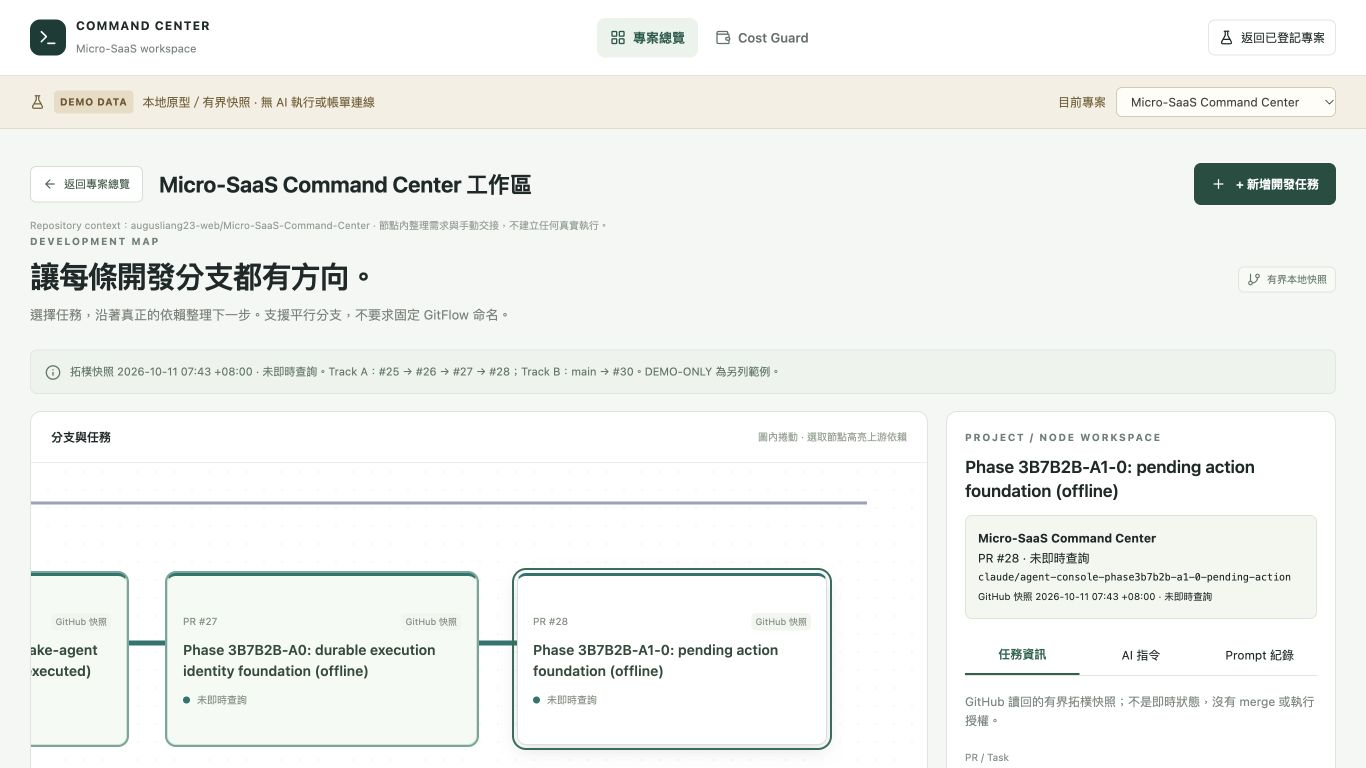
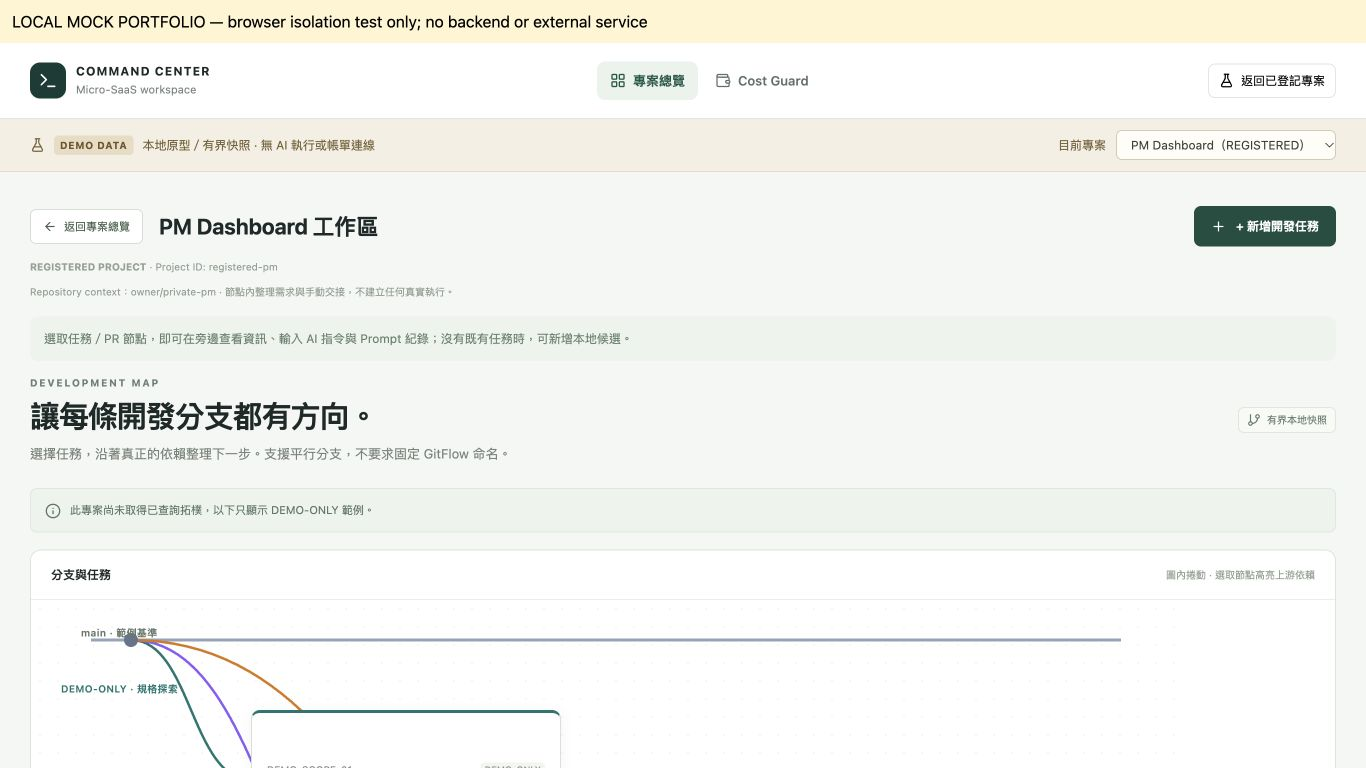
fix: isolate registered and demo workspace identities

diff --git a/src/prototype/PrototypeShell.tsx b/src/prototype/PrototypeShell.tsx
@@ -8,56 +8,68 @@ import {NodeCommandPanel,PromptDraft,emptyDraft,promptBytes,MAX_PROMPT_BYTES} fr
 import {PromptEntry} from './PromptHistory';
 import './prototype.css';
 const PAGES=[{id:'overview',label:'專案總覽',icon:LayoutGrid},{id:'cost',label:'Cost Guard',icon:Wallet}] as const;
-type RegisteredContext={id?:string;name:string;repository:string};
+type RegisteredContext={id?:string;name:string;repository?:string};
+type WorkspaceIdentity={source:'REGISTERED'|'DEMO';projectId?:string;repository?:string;displayName:string};
+const DEMO_IDS:Record<string,string>={'PM Dashboard':'demo-pm','SwipeRight':'demo-swipe','SaaS Cost Guard':'demo-cost','ProSync':'demo-prosync','Micro-SaaS Command Center':'demo-command-center'};
+const demoIdentity=(name:string):WorkspaceIdentity=>({source:'DEMO',projectId:Object.prototype.hasOwnProperty.call(DEMO_IDS,name)?DEMO_IDS[name]:undefined,displayName:name,repository:name==='Micro-SaaS Command Center'?'augusliang23-web/Micro-SaaS-Command-Center':undefined});
+const workspaceKey=(identity:WorkspaceIdentity)=>JSON.stringify([identity.source,identity.projectId??null,identity.repository??null]);
+const registeredIdentity=(context:RegisteredContext):WorkspaceIdentity=>({source:'REGISTERED',projectId:context.id?.trim()?context.id:undefined,repository:context.repository?.trim()||undefined,displayName:context.name});
 export function PrototypeShell({registeredOverview}:{registeredOverview:(remember:(context:RegisteredContext)=>void)=>ReactNode}) {
   const [demo,setDemo]=useState(()=>new URLSearchParams(window.location.search).get('mode')==='demo');
-  const [page,setPage]=useState<Page>('overview');const [project,setProject]=useState('Micro-SaaS Command Center');
+  const [page,setPage]=useState<Page>('overview');const [identity,setIdentity]=useState<WorkspaceIdentity>(()=>demoIdentity('Micro-SaaS Command Center'));
+  const project=identity.displayName;
   const [registered,setRegistered]=useState<RegisteredContext|null>(null);const [taskId,setTaskId]=useState('');
   const [drafts,setDrafts]=useState<Record<string,PromptDraft>>({});const [histories,setHistories]=useState<Record<string,PromptEntry[]>>({});
   const [candidates,setCandidates]=useState<Record<string,DemoTask[]>>({});const sequence=useRef(0);
   const [adding,setAdding]=useState(false);const [newTitle,setNewTitle]=useState('');const [newRequirement,setNewRequirement]=useState('');
   const [openCommand,setOpenCommand]=useState(false);
-  const registeredContext=registered?.name===project?registered:null;
-  const projectKey=JSON.stringify(registeredContext?['registered',registeredContext.id??registeredContext.repository,registeredContext.repository]:['demo',project]);
-  const canonical=!registeredContext||/^(?:https?:\/\/)?(?:github\.com\/)?augusliang23-web\/Micro-SaaS-Command-Center\/?$/.test(registeredContext.repository);
+  const projectKey=workspaceKey(identity);const identityKnown=Boolean(identity.projectId);
+  const canonical=identity.source==='DEMO'?identity.projectId==='demo-command-center':Boolean(identity.repository&&/^(?:https?:\/\/)?(?:github\.com\/)?augusliang23-web\/Micro-SaaS-Command-Center\/?$/.test(identity.repository));
   const tasks=[...tasksFor(project,canonical),...(candidates[projectKey]??[])];const task=tasks.find(t=>t.id===taskId);
   const key=JSON.stringify([projectKey,taskId]);
-  const repository=registeredContext?.repository??(project==='Micro-SaaS Command Center'?'augusliang23-web/Micro-SaaS-Command-Center':undefined);
+  const repository=identity.repository;
   useLayoutEffect(()=>{(document.scrollingElement??document.documentElement).scrollTop=0;},[page,demo]);
   const clearSelection=()=>{setTaskId('');setAdding(false);setOpenCommand(false);};
-  const rememberRegistered=useCallback((context:RegisteredContext)=>{setRegistered(context);setProject(context.name);setTaskId('');setAdding(false);},[]);
-  const chooseProject=(name:string)=>{if(name!==project){setProject(name);clearSelection();setNewTitle('');setNewRequirement('');}};
+  const switchIdentity=(next:WorkspaceIdentity)=>{
+    if(workspaceKey(next)!==projectKey){clearSelection();setNewTitle('');setNewRequirement('');}
+    setIdentity(next);
+  };
+  const rememberRegistered=useCallback((context:RegisteredContext)=>{setRegistered(context);setIdentity(registeredIdentity(context));setTaskId('');setAdding(false);setOpenCommand(false);setNewTitle('');setNewRequirement('');},[]);
+  const chooseProject=(name:string)=>switchIdentity(demoIdentity(name));
   const navigate=(destination:Page,name=project)=>{chooseProject(name);setPage(destination);setDemo(true);};
+  const enterRegistered=()=>{if(!registered)return;switchIdentity(registeredIdentity(registered));setPage('workspace');setDemo(true);};
   const select=(id:string)=>{setTaskId(id);setOpenCommand(false);};
   const titleInvalid=!newTitle.trim()||newTitle.length>80;const requirementInvalid=!newRequirement.trim()||promptBytes(newRequirement)>MAX_PROMPT_BYTES;
   const createCandidate=()=>{
-    if(titleInvalid||requirementInvalid)return;
+    if(!identityKnown||titleInvalid||requirementInvalid)return;
     const id=`local-${++sequence.current}`;
     const candidate:DemoTask={id,title:newTitle,reference:`LOCAL-DEMO-${sequence.current}`,branch:'Not available（未建立 Git branch）',description:'本次工作階段的本地 DEMO 候選。不建立 GitHub Issue、branch、PR、核准或 agent run。',dependencies:['main'],lane:'ui',x:Math.max(220,...tasks.filter(t=>t.lane==='ui').map(t=>t.x+350)),source:'demo',status:'本地候選 · 未核准'};
     setCandidates(c=>({...c,[projectKey]:[...(c[projectKey]??[]),candidate]}));
     setDrafts(d=>({...d,[JSON.stringify([projectKey,id])]:{...emptyDraft(),request:newRequirement}}));
     setTaskId(id);setAdding(false);setOpenCommand(true);setNewTitle('');setNewRequirement('');
   };
-  const panel=task?<NodeCommandPanel key={key} project={project} repository={repository} task={task} tasks={tasks} draft={drafts[key]??emptyDraft()} change={d=>setDrafts(prev=>({...prev,[key]:d}))} entries={histories[key]??[]} save={entry=>{const saved={...entry,id:++sequence.current};setHistories(h=>({...h,[key]:[...(h[key]??[]),saved]}));}} initialTab={openCommand?'AI 指令':'任務資訊'}/>:null;
+  const panel=identityKnown&&task?<NodeCommandPanel key={key} workspaceSource={identity.source} workspaceId={identity.projectId!} project={project} repository={repository} task={task} tasks={tasks} draft={drafts[key]??emptyDraft()} change={d=>setDrafts(prev=>({...prev,[key]:d}))} entries={histories[key]??[]} save={entry=>{const saved={...entry,id:++sequence.current};setHistories(h=>({...h,[key]:[...(h[key]??[]),saved]}));}} initialTab={openCommand?'AI 指令':'任務資訊'}/>:null;
   return <div className="prototype-shell">
     <header className="p-header"><div className="p-brand"><span><Terminal size={20}/></span><div><strong>COMMAND CENTER</strong><small>Micro-SaaS workspace</small></div></div>
       <nav aria-label="主要頁面">{PAGES.map(p=><button key={p.id} aria-current={page===p.id||(p.id==='overview'&&page==='workspace')?'page':undefined} onClick={()=>{if(demo||p.id==='cost')navigate(p.id);else setPage('overview');}}><p.icon size={16}/>{p.label}</button>)}</nav>
-      <button className="p-mode" onClick={()=>{setDemo(!demo);setPage('overview');}}><FlaskConical size={15}/>{demo?'返回已登記專案':'進入 DEMO'}</button>
+      <button className="p-mode" onClick={()=>{if(!demo)chooseProject(project);clearSelection();setNewTitle('');setNewRequirement('');setDemo(!demo);setPage('overview');}}><FlaskConical size={15}/>{demo?'返回已登記專案':'進入 DEMO'}</button>
     </header>
     {demo?<>
-      <div className="p-demo-bar"><span><FlaskConical size={15}/><strong>DEMO DATA</strong> 本地原型／有界快照 · 無 AI 執行或帳單連線</span><label htmlFor="p-project">目前專案<select aria-label="目前專案" id="p-project" value={project} onChange={e=>chooseProject(e.target.value)}>{PROJECTS.map(p=><option key={p.name}>{p.name}</option>)}{!PROJECTS.some(p=>p.name===project)&&<option>{project}</option>}</select></label></div>
+      <div className="p-demo-bar"><span><FlaskConical size={15}/><strong>DEMO DATA</strong> 本地原型／有界快照 · 無 AI 執行或帳單連線</span><label htmlFor="p-project">目前專案<select aria-label="目前專案" id="p-project" value={identity.source==='REGISTERED'?'registered-current':project} onChange={e=>chooseProject(e.target.value)}>{identity.source==='REGISTERED'&&<option value="registered-current" disabled>{project}（REGISTERED）</option>}{PROJECTS.map(p=><option key={p.name}>{p.name}</option>)}</select></label></div>
       <main className="p-main">
         {page==='overview'&&<Overview selected={project} navigate={navigate}/>}
         {page==='cost'&&<CostGuard project={project} select={chooseProject}/>}
         {page==='workspace'&&<>
-          <div className="p-workspace-heading"><button className="p-secondary" onClick={()=>navigate('overview')}><ArrowLeft size={14}/>返回專案總覽</button><h1>{project} 工作區</h1><button className="p-primary" onClick={()=>setAdding(!adding)}><Plus size={15}/>+ 新增開發任務</button></div>
+          <div className="p-workspace-heading"><button className="p-secondary" onClick={()=>navigate('overview')}><ArrowLeft size={14}/>返回專案總覽</button><h1>{project} 工作區</h1><button className="p-primary" disabled={!identityKnown} onClick={()=>setAdding(!adding)}><Plus size={15}/>+ 新增開發任務</button></div>
+          <p className="p-source"><strong>{identity.source==='REGISTERED'?'REGISTERED PROJECT':'DEMO PROJECT'}</strong> · Project ID: {identity.projectId??'Not available'}</p>
+          {!identityKnown&&<p role="alert">缺少穩定專案 ID，工作區指令與紀錄操作已封閉；不以名稱或 repository 推測身分。</p>}
           <p className="p-source">{repository?`Repository context：${repository}`:'Repository：Not available'} · 節點內整理需求與手動交接，不建立任何真實執行。</p>
           {adding&&<section className="p-new-task" aria-label="新增本地任務"><h2>新增本地 DEMO 候選</h2><p className="p-muted">只在本次工作階段顯示，不建立 GitHub Issue、branch、PR 或核准。</p><label className="p-field">任務名稱<input aria-label="任務名稱" value={newTitle} onChange={e=>setNewTitle(e.target.value)}/></label><label className="p-field">新任務需求<textarea aria-label="新任務需求" value={newRequirement} onChange={e=>setNewRequirement(e.target.value)} rows={4}/></label>{newTitle.length>80&&<p role="alert">任務名稱上限為 80 字元，請自行縮減。</p>}{promptBytes(newRequirement)>MAX_PROMPT_BYTES&&<p role="alert">需求超過 64 KiB 上限，請自行縮減。</p>}<button className="p-primary" disabled={titleInvalid||requirementInvalid} onClick={createCandidate}>建立本地 DEMO 候選</button></section>}
           {!task&&<p className="p-workspace-empty">選取任務／PR 節點，即可在旁邊查看資訊、輸入 AI 指令與 Prompt 紀錄；沒有既有任務時，可新增本地候選。</p>}
-          <DevelopmentMap tasks={tasks} selected={taskId} select={select} panel={panel}/>
+          {identityKnown&&<DevelopmentMap tasks={tasks} selected={taskId} select={select} panel={panel}/>}
         </>}
       </main>
       <footer className="p-footer"><span>所有貼入文字均未驗證，不構成核准或執行權限。</span><span>REAL_AGENT_EXECUTION = NOT_AUTHORIZED</span></footer>
-    </>:<><div className="p-real-bar">已登記專案總覽 · 保留來源查詢與 UNKNOWN 邊界。{registered&&<span>選定 context：{registered.name}</span>}<button onClick={()=>navigate('workspace')}>進入專案工作區</button><button onClick={()=>navigate('overview')}>體驗 DEMO 專案</button></div><div className="p-registered-overview">{registeredOverview(rememberRegistered)}</div></>}
+    </>:<><div className="p-real-bar">已登記專案總覽 · 保留來源查詢與 UNKNOWN 邊界。{registered&&<span>選定 context：{registered.name}</span>}<button disabled={!registered} onClick={enterRegistered}>進入專案工作區</button><button onClick={()=>navigate('overview')}>體驗 DEMO 專案</button></div><div className="p-registered-overview">{registeredOverview(rememberRegistered)}</div></>}
   </div>;
 }

diff --git a/src/Prototype.test.tsx b/src/Prototype.test.tsx
@@ -2,6 +2,7 @@ import {cleanup,fireEvent,render,screen,within,waitFor} from '@testing-library/r
 import userEvent from '@testing-library/user-event';
 import {afterEach,beforeEach,expect,test,vi} from 'vitest';
 import App from './App';
+import {PrototypeShell} from './prototype/PrototypeShell';
 import {initialProjects,initialAttentionItems,initialNextBestAction,initialExecutionSnapshot} from './mockData';
 import {githubSnapshot} from './test/githubSnapshots.mjs';
 
@@ -154,4 +155,49 @@ test('local candidates remain private to their project and survive in-session na
 test('editing after CRLF paste preserves every untouched original line ending',async()=>{
  const write=clipboard();render(<App/>);workspace();node();tab();fireEvent.click(screen.getByRole('button',{name:'貼入 Control Plane Prompt'}));const raw='Agent: Codex\r\nModel: GPT-6 Sol\r\n\r\n需求 A  \r\n';
  fireEvent.paste(screen.getByLabelText('你的指令'),{clipboardData:{getData:()=>raw}});fireEvent.change(screen.getByLabelText('你的指令'),{target:{value:raw.replace(/\r\n/g,'\n')+'追加說明'}});save();tab('Prompt 紀錄');fireEvent.click(screen.getByRole('button',{name:'複製 Prompt'}));await waitFor(()=>expect(write).toHaveBeenCalledWith(raw+'追加說明'));
+});
+
+
+const enterRegistered=()=>fireEvent.click(screen.getByRole('button',{name:'進入專案工作區'}));
+const candidate=(title:string)=>{fireEvent.click(screen.getByRole('button',{name:'+ 新增開發任務'}));fireEvent.change(screen.getByLabelText('任務名稱'),{target:{value:title}});fireEvent.change(screen.getByLabelText('新任務需求'),{target:{value:'候選私有需求'}});fireEvent.click(screen.getByRole('button',{name:'建立本地 DEMO 候選'}));};
+
+test('P2 regression: same-name demo cannot inherit registered repository, drafts, history or candidates',async()=>{
+ window.history.replaceState(null,'','/');const real={...initialProjects[0],id:'registered-pm',name:'PM Dashboard',repository:'owner/private-pm'};
+ vi.spyOn(globalThis,'fetch').mockImplementation(async input=>({ok:true,json:async()=>String(input)==='/api/state'?{projects:[real],attentionItems:initialAttentionItems,nba:initialNextBestAction,snapshot:initialExecutionSnapshot}:githubSnapshot({state:'none'})}) as Response);
+ const write=clipboard();render(<App/>);await screen.findByRole('article',{name:'PM Dashboard'});fireEvent.click(within(screen.getByRole('article',{name:'PM Dashboard'})).getByRole('button',{name:'查看專案'}));fireEvent.click(screen.getByRole('button',{name:'關閉專案詳情'}));enterRegistered();node(/UI\/UX Development/);tab();input('REGISTERED UNIQUE HISTORY');save();input('REGISTERED UNSAVED DRAFT');candidate('REGISTERED CANDIDATE');
+ fireEvent.click(screen.getByRole('button',{name:'返回已登記專案'}));fireEvent.click(screen.getByRole('button',{name:'體驗 DEMO 專案'}));workspace('PM Dashboard');
+ expect(screen.queryByText(/owner\/private-pm/)).not.toBeInTheDocument();expect(screen.getByText('DEMO PROJECT')).toBeVisible();expect(screen.queryByRole('region',{name:'節點指令面板'})).not.toBeInTheDocument();expect(screen.queryByRole('button',{name:/REGISTERED CANDIDATE/})).not.toBeInTheDocument();
+ node(/UI\/UX Development/);tab();expect(screen.getByLabelText('你的指令')).toHaveValue('');tab('Prompt 紀錄');expect(screen.queryByRole('article',{name:'Prompt 1'})).not.toBeInTheDocument();tab('任務資訊');fireEvent.click(screen.getByRole('button',{name:'複製專案／節點上下文'}));await waitFor(()=>expect(write).toHaveBeenCalled());expect(write.mock.calls.at(-1)?.[0]).not.toContain('owner/private-pm');expect(write.mock.calls.at(-1)?.[0]).toContain('Workspace source: DEMO');
+ tab();input('DEMO UNIQUE HISTORY');save();fireEvent.click(screen.getByRole('button',{name:'返回已登記專案'}));enterRegistered();expect(screen.getByText('REGISTERED PROJECT')).toBeVisible();node(/UI\/UX Development/);tab('Prompt 紀錄');expect(screen.getByLabelText('Prompt 1 原文')).toHaveValue('REGISTERED UNIQUE HISTORY');expect(screen.queryByText('DEMO UNIQUE HISTORY')).not.toBeInTheDocument();tab();expect(screen.getByLabelText('你的指令')).toHaveValue('REGISTERED UNSAVED DRAFT');expect(screen.getByRole('button',{name:/REGISTERED CANDIDATE/})).toBeVisible();tab('任務資訊');fireEvent.click(screen.getByRole('button',{name:'複製專案／節點上下文'}));await waitFor(()=>expect(write.mock.calls.at(-1)?.[0]).toContain('owner/private-pm'));expect(write.mock.calls.at(-1)?.[0]).toContain('registered-pm');
+});
+
+function identityFixture(projects:Array<{id?:string;name:string;repository:string}>) {
+ window.history.replaceState(null,'','/');
+ render(<PrototypeShell registeredOverview={remember=><>{projects.map((p,i)=><button key={i} onClick={()=>remember(p)}>選取登記專案 {i+1}</button>)}</>}/>);
+}
+const registered=(index:number)=>{if(screen.queryByRole('button',{name:'返回已登記專案'}))fireEvent.click(screen.getByRole('button',{name:'返回已登記專案'}));fireEvent.click(screen.getByRole('button',{name:`選取登記專案 ${index}`}));enterRegistered();};
+
+test.each([
+ ['different IDs, same repository','registered-pm-2','owner/private-pm'],
+ ['same name, different repositories','registered-pm-2','owner/other-pm'],
+ ['same ID, changed repository','registered-pm','owner/other-pm'],
+])('registered identities separate same node IDs and restore histories: %s',(_label,id,repository)=>{
+ identityFixture([{id:'registered-pm',name:'PM Dashboard',repository:'owner/private-pm'},{id,name:'PM Dashboard',repository}]);registered(1);node(/UI\/UX Development/);tab();input('FIRST PRIVATE');save();fireEvent.click(screen.getByRole('button',{name:'產生示範規劃'}));registered(2);expect(screen.queryByRole('region',{name:'節點指令面板'})).not.toBeInTheDocument();node(/UI\/UX Development/);tab();expect(screen.getByLabelText('你的指令')).toHaveValue('');expect(screen.queryByText('DEMO PLANNING PREVIEW')).not.toBeInTheDocument();input('SECOND PRIVATE');save();registered(1);node(/UI\/UX Development/);tab('Prompt 紀錄');expect(screen.getByLabelText('Prompt 1 原文')).toHaveValue('FIRST PRIVATE');registered(2);node(/UI\/UX Development/);tab('Prompt 紀錄');expect(screen.getByLabelText('Prompt 1 原文')).toHaveValue('SECOND PRIVATE');expect(screen.getByRole('button',{name:'Execute with Agent'})).toBeDisabled();
+});
+
+test('same-name DEMO dropdown switches identity and invalidates selection and plan',()=>{
+ identityFixture([{id:'registered-pm',name:'PM Dashboard',repository:'owner/private-pm'}]);registered(1);node(/UI\/UX Development/);tab();input('REGISTERED');save();fireEvent.click(screen.getByRole('button',{name:'產生示範規劃'}));fireEvent.change(screen.getByLabelText('目前專案'),{target:{value:'PM Dashboard'}});expect(screen.queryByRole('region',{name:'節點指令面板'})).not.toBeInTheDocument();expect(screen.queryByText(/owner\/private-pm/)).not.toBeInTheDocument();expect(screen.getByText('DEMO PROJECT')).toBeVisible();node(/UI\/UX Development/);tab();expect(screen.getByLabelText('你的指令')).toHaveValue('');expect(screen.queryByText('DEMO PLANNING PREVIEW')).not.toBeInTheDocument();
+});
+
+test('missing registered repository is unavailable, never inferred from Command Center name',async()=>{
+ const write=clipboard();identityFixture([{id:'known-id',name:'Micro-SaaS Command Center',repository:''}]);registered(1);expect(screen.queryByRole('button',{name:/PR #28/})).not.toBeInTheDocument();node(/UI\/UX Development/);fireEvent.click(screen.getByRole('button',{name:'複製專案／節點上下文'}));await waitFor(()=>expect(write).toHaveBeenCalled());expect(write.mock.calls[0][0]).toContain('Repository: Not available');expect(write.mock.calls[0][0]).not.toContain('augusliang23-web/Micro-SaaS-Command-Center');
+});
+
+test('missing registered project ID blocks prompt state instead of using name or repository as identity',()=>{
+ identityFixture([{name:'PM Dashboard',repository:'owner/private-pm'}]);registered(1);expect(screen.getByRole('alert')).toHaveTextContent('缺少穩定專案 ID');expect(screen.queryByRole('region',{name:'開發分支圖'})).not.toBeInTheDocument();expect(screen.getByRole('button',{name:'+ 新增開發任務'})).toBeDisabled();
+});
+
+
+test('mode toggle explicitly selects DEMO even when the display name is unchanged',()=>{
+ identityFixture([{id:'registered-pm',name:'PM Dashboard',repository:'owner/private-pm'}]);registered(1);node(/UI\/UX Development/);tab();input('PRIVATE');save();fireEvent.click(screen.getByRole('button',{name:'返回已登記專案'}));fireEvent.click(screen.getByRole('button',{name:'進入 DEMO'}));expect(screen.getByLabelText('目前專案')).toHaveValue('PM Dashboard');workspace('PM Dashboard');expect(screen.getByText('DEMO PROJECT')).toBeVisible();node(/UI\/UX Development/);tab();expect(screen.getByLabelText('你的指令')).toHaveValue('');tab('Prompt 紀錄');expect(screen.queryByRole('article',{name:'Prompt 1'})).not.toBeInTheDocument();registered(1);node(/UI\/UX Development/);tab('Prompt 紀錄');expect(screen.getByLabelText('Prompt 1 原文')).toHaveValue('PRIVATE');
 });

diff --git a/src/prototype/NodeCommandPanel.tsx b/src/prototype/NodeCommandPanel.tsx
@@ -31,8 +31,8 @@ async function copyText(text:string) {
   if(!navigator.clipboard?.writeText)throw Error('Clipboard unavailable');
   await navigator.clipboard.writeText(text);
 }
-export function NodeCommandPanel({project,repository,task,tasks,draft,change,entries,save,initialTab='任務資訊'}:{
-  project:string;repository?:string;task:DemoTask;tasks:DemoTask[];draft:PromptDraft;
+export function NodeCommandPanel({workspaceSource,workspaceId,project,repository,task,tasks,draft,change,entries,save,initialTab='任務資訊'}:{
+  workspaceSource:'REGISTERED'|'DEMO';workspaceId:string;project:string;repository?:string;task:DemoTask;tasks:DemoTask[];draft:PromptDraft;
   change:(draft:PromptDraft)=>void;entries:PromptEntry[];save:(entry:Omit<PromptEntry,'id'>)=>void;
   initialTab?:'任務資訊'|'AI 指令';
 }) {
@@ -45,7 +45,7 @@ export function NodeCommandPanel({project,repository,task,tasks,draft,change,ent
   useEffect(()=>{setPlan(null);setFeedback(null);},[draft.request,draft.pasted,draft.mode]);
   const copy=async(text:string)=>{try{await copyText(text);setFeedback({error:false,text:'已複製 Prompt'});}catch{setFeedback({error:true,text:'複製失敗，請手動選取原文複製。'});}};
   const context=()=>[
-    `Project: ${project}`,`Repository: ${repository ?? 'Not available'}`,`Task: ${task.title}`,`PR/Task: ${task.reference}`,`Branch: ${task.branch}`,
+    `Workspace source: ${workspaceSource}`,`Project ID: ${workspaceId}`,`Project: ${project}`,`Repository: ${repository ?? 'Not available'}`,`Task: ${task.title}`,`PR/Task: ${task.reference}`,`Branch: ${task.branch}`,
     `Dependencies: ${task.dependencies.map(id=>tasks.find(t=>t.id===id)?.reference??id).join(', ')}`,
     `Source: ${task.source==='historical'?'GitHub bounded snapshot':'LOCAL DEMO'}`,`Status: ${task.status}`,
     `Last checked: ${task.provenance?.observedAt ?? '本次工作階段 / DEMO'}`,

diff --git a/docs/evidence/track-b-b0-uiux/README.md b/docs/evidence/track-b-b0-uiux/README.md
@@ -2,7 +2,7 @@
 
 Frontend prototype only. `REAL_AGENT_EXECUTION = NOT_AUTHORIZED`.
 
-**Current evidence: B0.2, authorized by [Issue #32](https://github.com/augusliang23-web/Micro-SaaS-Command-Center/issues/32).** B0 and B0.1 sections below preserve historical behavior/results; they are superseded by the B0.2 section at the end. The five images now show B0.2. B0.1 technical review passed but human UX required revision. Issue #32 does not retroactively approve the original B0 process. Human UX acceptance and merge remain pending.
+**Current evidence: B0.2 P2 remediation, authorized by [Issue #32](https://github.com/augusliang23-web/Micro-SaaS-Command-Center/issues/32).** B0 and B0.1 sections below preserve historical behavior/results; they are superseded by the B0.2 section at the end. Overview/Cost Guard images retain B0.2 captures. Development Map/node command/AI command images now show the P2 local-mock isolation verification, as described in the final section. B0.1 technical review passed but human UX required revision. Issue #32 does not retroactively approve the original B0 process. Human UX acceptance and merge remain pending.
 
 Base: `25692a9a1fdedaf82910630fb767589aa5dccddf`.
 Branch: `feat/track-b-uiux-prototype`.
@@ -206,3 +206,70 @@ Pending human checks:
 - [ ] Confirm session-only retention and unverified-import wording are understood.
 
 **READY_FOR_REVIEW. REAL_AGENT_EXECUTION = NOT_AUTHORIZED.**
+
+
+## B0.2 P2 — Workspace identity isolation remediation (2026-10-11)
+
+Starting/negative-control HEAD: `fdf82cfe12e4412474faac7731c93ad850897996`. Issue #32's P2 addendum was read in full and verified OPEN with model:sol, risk:medium, bridge:ready and Medium effort. Local/remote HEAD, branch, origin, clean worktree and existing OPEN/Draft PR30 matched before edits. Authorization covers only the confirmed same-name REGISTERED/DEMO isolation defect; original B0 governance and pending human acceptance remain unchanged.
+
+### Correction
+
+Workspace selection now carries an explicit identity: source REGISTERED or DEMO, stable project ID, repository if known and display name. State keys are the exact source + project ID + repository, followed by node ID. Display name is presentation, never registered identity; repository alone cannot join distinct registered IDs. The fixed demo catalog has independent IDs such as demo-pm. Registered identity preserves the actual nonblank project ID. Missing ID closes node/prompt/candidate operations with an explicit alert; missing repository is Not available and never inferred from the display name. Unrelated registered Command Center names do not obtain the historical PR inventory.
+
+Registered portfolio selection and its workspace entry select REGISTERED identity. Demo cards, the demo selector and entry into DEMO select DEMO explicitly. The selector displays a separate disabled current REGISTERED option, so choosing the same-name DEMO option produces a real identity-change event. Mode/identity changes reset selected task, command panel, candidate form and stale previews; separately keyed drafts, immutable history and local candidates remain intact for later return to their exact workspace.
+
+Workspace UI states REGISTERED PROJECT or DEMO PROJECT with Project ID. Context copy now includes Workspace source and Project ID along with the current repository/task/provenance. A registered repository is never substituted into a same-name demo. Task source (DEMO-only example or dated historical GitHub snapshot) remains separate from workspace source; a REGISTERED context does not make its example map authoritative.
+
+Only PrototypeShell.tsx, NodeCommandPanel.tsx, Prototype.test.tsx and this existing evidence directory changed. App.tsx and registered portfolio integration are unchanged. Cost Guard, raw imported text/CRLF preservation, 64 KiB limit, two input modes, two-item global navigation, memory-only storage and disabled execution retain their previous behavior.
+
+### Negative control and tests
+
+Before implementation, six new focused cases were run against the exact original fdf82cf source: Prototype.test.tsx had 35 tests, **31 passed / 4 failed**. The end-to-end App regression failed because owner/private-pm remained visible in the same-name DEMO workspace. Additional failures detected unchanged-source dropdown selection, inferred missing repository and unclosed missing-ID operations. The existing 29 prototype cases passed. This is an executed negative control, not an assumed reproduction.
+
+The App regression loads synthetic registered-pm / PM Dashboard / owner/private-pm through a mocked read, saves a unique history entry and unsaved draft, creates a candidate, returns to registered overview, opens the separate demo card, and checks no repository/draft/history/candidate/context leak. It then saves a DEMO entry and returns to the exact registered identity: its original history, draft, candidate and copied repository are intact and DEMO history is absent.
+
+Eight new cases cover the regression, distinct IDs sharing a repository, distinct IDs/repositories with the same name, a repository change under the same ID, same-name dropdown identity change, missing repository, missing project ID and the explicit mode toggle. They also exercise identical node IDs, history restoration, cleared stale plan/selection, copied identity and disabled execution. All prior 54 tests remain and pass.
+
+| Local check | Final result |
+| --- | --- |
+| npm run test:ui | **62/62 PASS**, 7 files, 0 failures; 54 baseline + 8 new cases |
+| npm run lint | PASS; an intermediate test-only invalid option was corrected before the final run |
+| npm run build | PASS; existing server.ts:24 CommonJS/import.meta warning retained |
+| git diff --check | PASS |
+| CI / human acceptance | Not claimed; independent Control Plane re-review pending |
+
+No package install or registry access. Project .npmrc filename and forbidden npm environment names were checked without reading values; commands used two separate empty temporary config files. An initial attempt to reuse /dev/null for both config paths was rejected by npm before tests started and corrected. No real provider/backend/agent execution was used.
+
+### Actual browser evidence — synthetic data only
+
+A temporary localhost static test page bundled the real modified PrototypeShell/NodeCommandPanel and their existing dependencies with a small clearly labeled LOCAL MOCK PORTFOLIO. Its callback supplies registered-pm / owner/private-pm and registered-pm-2 / owner/other-pm. It has no backend/API/persistence and invokes no service. This verifies the real workspace component using mock selection; full App registered-portfolio handoff is covered by the deterministic App regression above, not claimed as a live backend browser verification.
+
+Actual browser workflows at **1366×768, 768×1024 and 390×844**:
+
+- Registered A → node draft/history/candidate → registered overview → separate same-name DEMO card: no registered repository, draft, history or candidate; copied context says DEMO / demo-pm and excludes owner/private-pm.
+- DEMO saved prompt → exact registered A: only registered history restored; copied context restores REGISTERED / registered-pm / owner/private-pm.
+- Registered same-name dropdown → DEMO: selection clears and only DEMO history reappears.
+- Registered B (desktop check): separate owner/other-pm repository and empty history.
+
+The first matrix checked three relevant states at all three sizes (9/9 widths matched). After final identity validation cleanup, the bundle was rebuilt and clean DEMO / restored REGISTERED were rechecked at all three sizes (6/6 widths matched). No page-wide overflow was observed. Temporary viewport overrides were reset; test tabs closed and the temporary static listener stopped. Existing preview/backend processes were not altered.
+
+Updated actual captures:
+
+- development-map.jpg: REGISTERED PROJECT / registered-pm / owner/private-pm, explicitly local-mock portfolio.
+- node-command.jpg: same-name DEMO PROJECT / demo-pm / Repository Not available, explicitly local-mock portfolio.
+- ai-command.jpg: 390×844 mobile history containing DEMO ONLY, separate from registered history.
+
+![Registered identity](development-map.jpg)
+![Separate demo identity](node-command.jpg)
+
+### Safety and remaining gate
+
+Original main HEAD/status and all eight dirty-file hashes remain equal to the preserved baseline. This task performs no Track A write. Current readback: PR25 f5addc4, PR26 ae3f1e5, PR27 c7c751d, PR28 b4dfa5fb7d29e4bd120d4a3e3fd32f5990dc4434. PR28 has independently advanced beyond the dated B0.1 cf7fc7d snapshot; its latest commit is dated 2026-10-10T23:58:00Z. The historical map is deliberately not refreshed in this isolation-only task. Do not describe all remote Track A heads as unchanged against the older snapshot. All seven changed files are Issue32-allowlisted. No backend/auth/provider/billing/AGENTS/manifests/deployment changes, no added dependency, no bridge:approved, no merge/deploy and no B1. Delivery stays on existing Draft PR30 only.
+
+Session memory still clears on reload. Unknown project ID intentionally prevents workspace editing; a repository-less known ID can use only clearly labeled local examples and copies Not available. Static/mock browser proof does not establish live source authority. Human UX acceptance and independent Control Plane re-review are pending. Prior B0.2 no-blocker self/review statements are historical and do not supersede the later confirmed P2 finding.
+
+**READY_FOR_REVIEW. REAL_AGENT_EXECUTION = NOT_AUTHORIZED.**
+
+Final verified source SHA256 (binds tests/browser implementation; commit is reported in PR30):
[2 lines of base64/hex data omitted]
